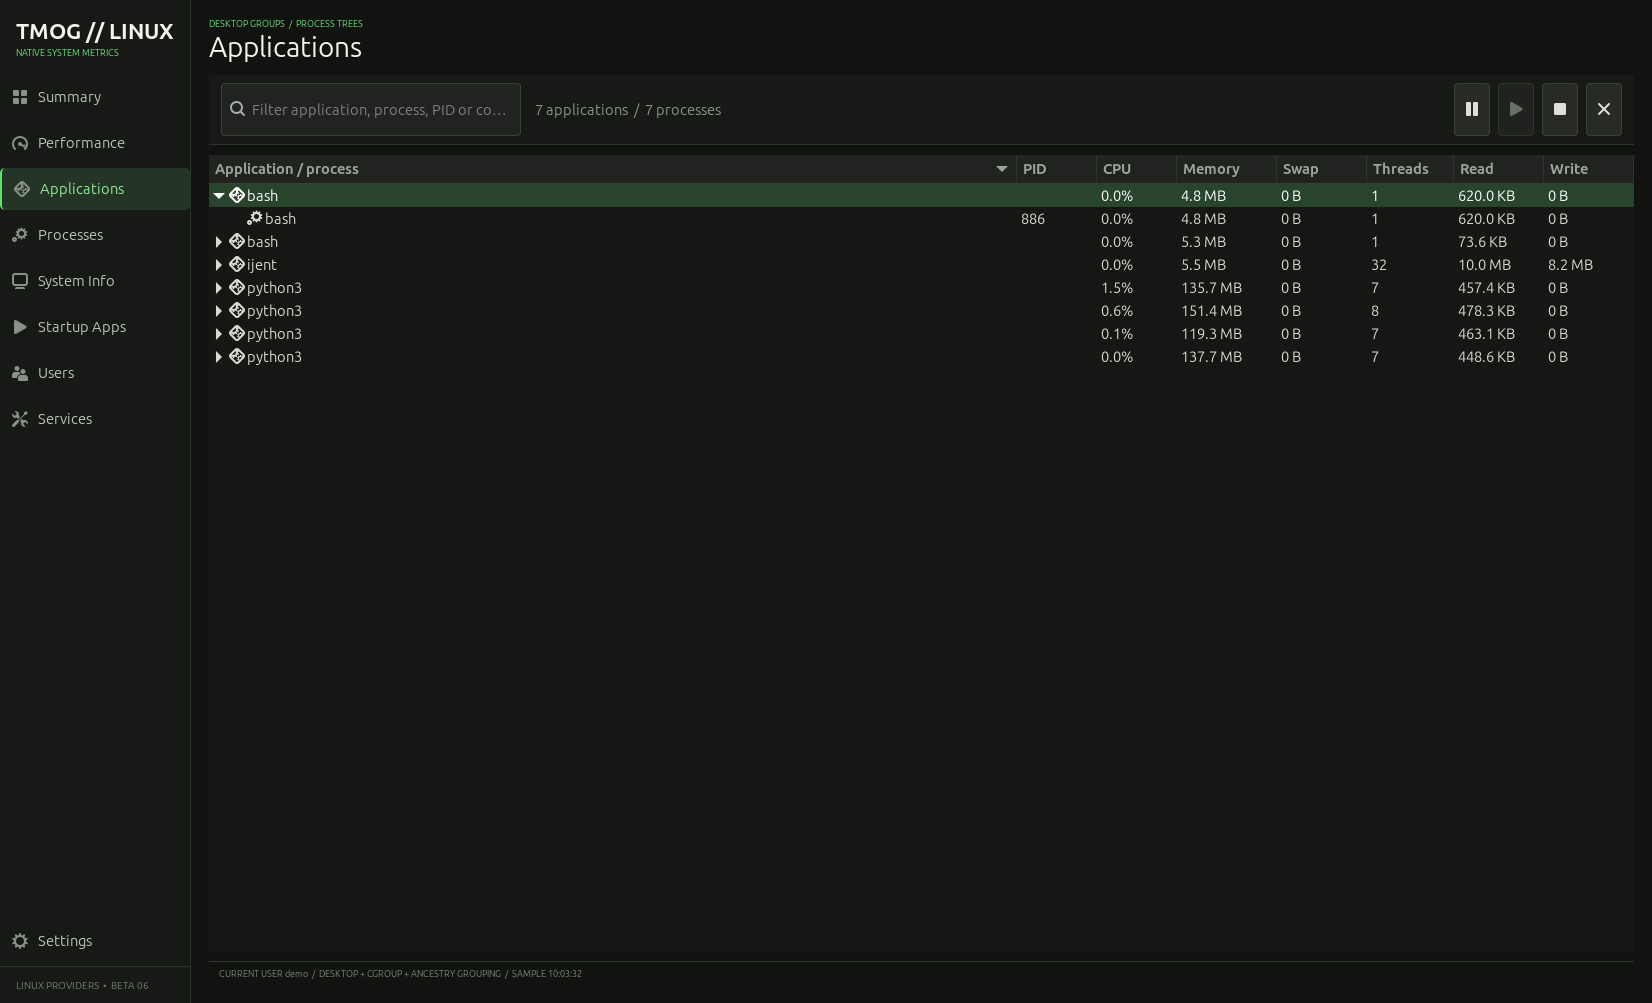
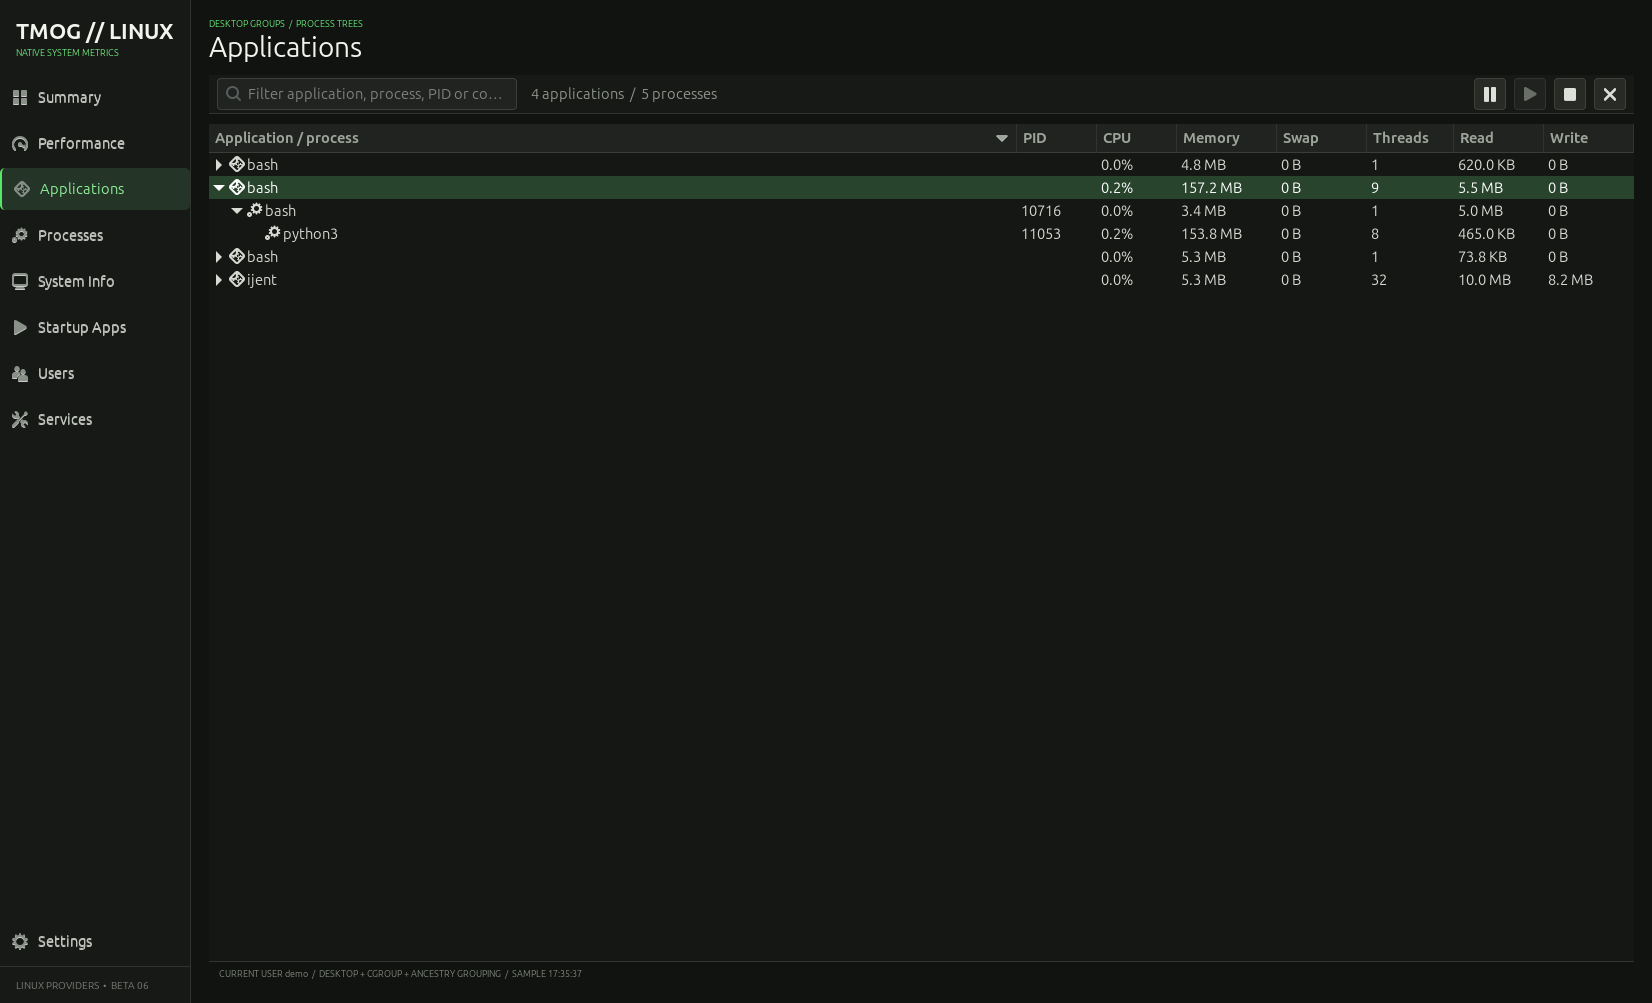
Release beta06.4-r21: balance compact data toolbars with reference-aligned table spacing

Changed region(s): [[0.1235, 0.0618, 0.9879, 0.3709], [0.0309, 0.0927, 0.0617, 0.1545], [0.0309, 0.2782, 0.0617, 0.3091]]

diff --git a/tmog_linux/app.py b/tmog_linux/app.py
@@ -68,6 +68,7 @@ SIDEBAR_COMPACT_WIDTH = 58
 SIDEBAR_FULL_WIDTH = 205
 SIDEBAR_COMPACT_BREAKPOINT = 760
 SIDEBAR_SHORT_BREAKPOINT = 520
+DATA_TOOLBAR_TABLE_GAP = 10
 
 
 @dataclass(slots=True)
@@ -121,8 +122,10 @@ headerbar button.titlebutton.close:hover { background: #c42b1c; color: #ffffff; 
 .purple { color: #c34bff; }
 .red { color: #ff505a; }
 .status-live { color: #57ea69; font-size: 10px; }
-.toolbar { background: #171916; border-bottom: 1px solid #30342e; padding: 8px 12px; }
-.toolbar button, .compact-button { min-height: 28px; border-radius: 4px; background: #272a25; border: 1px solid #3b4038; color: #dce0d8; box-shadow: none; }
+.toolbar { background: #171916; border-bottom: 1px solid #30342e; padding: 3px 8px; }
+.toolbar button, .compact-button { min-height: 24px; padding: 3px 8px; border-radius: 4px; background: #272a25; border: 1px solid #3b4038; color: #dce0d8; box-shadow: none; }
+.toolbar entry, .toolbar searchentry { min-height: 24px; padding: 3px 8px; }
+.toolbar button.compact-button, button.compact-button { min-width: 24px; padding: 3px; }
 .toolbar button:hover, .compact-button:hover { background: #32362f; }
 .toolbar button:disabled, .compact-button:disabled { background: #20221f; border-color: #30342e; color: #696e67; }
 .collapse-button { min-width: 24px; min-height: 24px; padding: 1px; border-radius: 3px; background: transparent; border: 1px solid #343832; color: #aeb5aa; box-shadow: none; }
@@ -223,8 +226,10 @@ headerbar button.titlebutton.close:hover image { color: #ffffff; }
 .purple { color: #8e22b7; }
 .red { color: #c12735; }
 .status-live { color: #087a2c; font-size: 10px; }
-.toolbar { background: #ececf0; border-bottom: 1px solid #c9c9ce; padding: 8px 12px; }
-.toolbar button, .compact-button { min-height: 28px; border-radius: 5px; background: #ffffff; border: 1px solid #b8bcc3; color: #2c2c2e; box-shadow: 0 1px 1px rgba(0, 0, 0, 0.05); }
+.toolbar { background: #ececf0; border-bottom: 1px solid #c9c9ce; padding: 3px 8px; }
+.toolbar button, .compact-button { min-height: 24px; padding: 3px 8px; border-radius: 5px; background: #ffffff; border: 1px solid #b8bcc3; color: #2c2c2e; box-shadow: 0 1px 1px rgba(0, 0, 0, 0.05); }
+.toolbar entry, .toolbar searchentry { min-height: 24px; padding: 3px 8px; }
+.toolbar button.compact-button, button.compact-button { min-width: 24px; padding: 3px; }
 .toolbar button:hover, .compact-button:hover { background: #e6e6eb; }
 .toolbar button:disabled, .compact-button:disabled { background: #ededf0; border-color: #d2d2d7; color: #98989d; box-shadow: none; }
 .collapse-button { min-width: 24px; min-height: 24px; padding: 1px; border-radius: 4px; background: transparent; border: 1px solid #b8bcc3; color: #484b51; box-shadow: none; }
@@ -917,6 +922,7 @@ def icon_button(icon: str, tooltip: str, css_class: str = "compact-button") -> G
     button.set_image(Gtk.Image.new_from_icon_name(icon, Gtk.IconSize.BUTTON))
     button.set_tooltip_text(tooltip)
     button.get_style_context().add_class(css_class)
+    button.set_valign(Gtk.Align.CENTER)
     return button
 
 
@@ -996,10 +1002,15 @@ def scrollable(child: Gtk.Widget) -> Gtk.ScrolledWindow:
 
 
 def horizontally_scrollable(child: Gtk.Widget) -> Gtk.ScrolledWindow:
+    child.set_vexpand(False)
+    child.set_valign(Gtk.Align.START)
     scroller = Gtk.ScrolledWindow()
     scroller.set_policy(Gtk.PolicyType.AUTOMATIC, Gtk.PolicyType.NEVER)
-    scroller.set_overlay_scrolling(False)
+    scroller.set_overlay_scrolling(True)
     scroller.set_shadow_type(Gtk.ShadowType.NONE)
+    scroller.set_propagate_natural_height(True)
+    scroller.set_vexpand(False)
+    scroller.set_margin_bottom(DATA_TOOLBAR_TABLE_GAP)
     scroller.add(child)
     return scroller
 
@@ -1664,6 +1675,7 @@ class TmogWindow(Gtk.Window):
 
     def _build_applications_page(self) -> None:
         page, content = self._page_box("Applications", "DESKTOP GROUPS  /  PROCESS TREES")
+        content.set_spacing(0)
         toolbar = Gtk.Box(orientation=Gtk.Orientation.HORIZONTAL, spacing=8)
         toolbar.get_style_context().add_class("toolbar")
         self.application_search = Gtk.SearchEntry()
@@ -1748,6 +1760,7 @@ class TmogWindow(Gtk.Window):
 
     def _build_processes_page(self) -> None:
         page, content = self._page_box("Processes", "PROCESS TREE  /  NATIVE SIGNALS")
+        content.set_spacing(0)
         toolbar = Gtk.Box(orientation=Gtk.Orientation.HORIZONTAL, spacing=8)
         toolbar.get_style_context().add_class("toolbar")
         self.process_view_combo = Gtk.ComboBoxText()
@@ -1899,11 +1912,13 @@ class TmogWindow(Gtk.Window):
 
     def _build_startup_page(self) -> None:
         page, content = self._page_box("Startup Apps", "XDG AUTOSTART  /  MANAGED")
+        content.set_spacing(0)
         note = Gtk.Label(
             label="System entries are managed through safe per-user XDG overrides",
             xalign=0,
         )
         note.get_style_context().add_class("muted")
+        note.set_margin_bottom(10)
         content.pack_start(note, False, False, 0)
 
         toolbar = Gtk.Box(orientation=Gtk.Orientation.HORIZONTAL, spacing=8)
@@ -1966,6 +1981,7 @@ class TmogWindow(Gtk.Window):
 
     def _build_services_page(self) -> None:
         page, content = self._page_box("Services", "SYSTEMD  /  USER + SYSTEM CONTROL")
+        content.set_spacing(0)
         toolbar = Gtk.Box(orientation=Gtk.Orientation.HORIZONTAL, spacing=8)
         toolbar.get_style_context().add_class("toolbar")
         self.service_scope_combo = Gtk.ComboBoxText()

diff --git a/tools/capture_ui.py b/tools/capture_ui.py
@@ -15,7 +15,17 @@ gi.require_version("Gtk", "3.0")
 gi.require_version("Gdk", "3.0")
 from gi.repository import GLib, Gtk
 
-from tmog_linux.app import TmogWindow
+from tmog_linux.app import DATA_TOOLBAR_TABLE_GAP, TmogWindow
+
+
+def widgets_with_style_class(widget: Gtk.Widget, css_class: str) -> list[Gtk.Widget]:
+    matches = []
+    if widget.get_style_context().has_class(css_class):
+        matches.append(widget)
+    if isinstance(widget, Gtk.Container):
+        for child in widget.get_children():
+            matches.extend(widgets_with_style_class(child, css_class))
+    return matches
 
 
 def sanitize_public_capture(window: TmogWindow) -> None:
@@ -78,6 +88,11 @@ def main() -> int:
     if capture_theme:
         if capture_theme not in ("system", "dark", "light"):
             raise SystemExit("TMOG_CAPTURE_THEME must be system, dark, or light")
+        window.theme_combo.handler_block_by_func(window._theme_changed)
+        try:
+            window.theme_combo.set_active_id(capture_theme)
+        finally:
+            window.theme_combo.handler_unblock_by_func(window._theme_changed)
         window._apply_theme(capture_theme)
     capture_size = os.environ.get("TMOG_CAPTURE_SIZE")
     capture_dimensions: tuple[int, int] | None = None
@@ -155,6 +170,43 @@ def main() -> int:
                 f"allocated={allocation.width}x{allocation.height}, "
                 f"preferred-heights={preferred_heights}"
             )
+        for toolbar in widgets_with_style_class(window.stack.get_visible_child(), "toolbar"):
+            _minimum_height, natural_height = toolbar.get_preferred_height()
+            allocated_height = toolbar.get_allocated_height()
+            print(f"toolbar-height: natural={natural_height}px, allocated={allocated_height}px")
+            if allocated_height > natural_height + 2:
+                window.destroy()
+                raise RuntimeError("Toolbar controls expand beyond their natural height")
+            if allocated_height > 42:
+                window.destroy()
+                raise RuntimeError("Toolbar is taller than the compact data-header target")
+            ancestor = toolbar.get_parent()
+            while ancestor is not None and not isinstance(ancestor, Gtk.ScrolledWindow):
+                ancestor = ancestor.get_parent()
+            if ancestor is not None:
+                reserved_height = ancestor.get_allocated_height() - allocated_height
+                visible_gap = reserved_height + ancestor.get_margin_bottom()
+                print(
+                    f"toolbar-to-table-gap: reserved={reserved_height}px, "
+                    f"margin={ancestor.get_margin_bottom()}px, visible={visible_gap}px"
+                )
+                if reserved_height > 1 or ancestor.get_margin_bottom() != DATA_TOOLBAR_TABLE_GAP:
+                    window.destroy()
+                    raise RuntimeError("Toolbar does not match the intended table-header gap")
+            toolbar_parent = ancestor.get_parent() if ancestor is not None else None
+            if isinstance(toolbar_parent, Gtk.Box):
+                spacing = toolbar_parent.get_spacing()
+                print(f"toolbar-to-table-spacing: {spacing}px")
+                if spacing != 0:
+                    window.destroy()
+                    raise RuntimeError("Toolbar still leaves a gap before the data table")
+        for button in widgets_with_style_class(window.stack.get_visible_child(), "compact-button"):
+            width = button.get_allocated_width()
+            height = button.get_allocated_height()
+            print(f"compact-button-size: {width}x{height}px")
+            if abs(width - height) > 1:
+                window.destroy()
+                raise RuntimeError("Icon-only toolbar button is not square")
         if window.stack.get_visible_child_name() == "summary":
             adjustment = window.summary_scroller.get_vadjustment()
             overflow = max(0.0, adjustment.get_upper() - adjustment.get_page_size())

diff --git a/tests/test_appearance.py b/tests/test_appearance.py
@@ -4,6 +4,7 @@ from pathlib import Path
 from tempfile import TemporaryDirectory
 
 from tmog_linux.app import (
+    DATA_TOOLBAR_TABLE_GAP,
     RESOURCE_GRAPH_MAXIMA,
     SIDEBAR_COMPACT_BREAKPOINT,
     SIDEBAR_COMPACT_WIDTH,
@@ -15,6 +16,8 @@ from tmog_linux.app import (
     clamped_scroll_value,
     graph_fraction,
     graph_maximum,
+    horizontally_scrollable,
+    icon_button,
     load_cpu_section_preferences,
     load_theme_preference,
     save_cpu_section_preferences,
@@ -22,6 +25,7 @@ from tmog_linux.app import (
     service_status_visual,
     summary_height_adjustment,
 )
+from gi.repository import Gtk
 
 
 class AppearancePreferenceTests(unittest.TestCase):
@@ -54,6 +58,21 @@ class AppearancePreferenceTests(unittest.TestCase):
         self.assertEqual(SIDEBAR_COMPACT_WIDTH, 58)
         self.assertEqual(SIDEBAR_FULL_WIDTH, 205)
         self.assertGreater(SIDEBAR_COMPACT_BREAKPOINT, WINDOW_MIN_WIDTH)
+
+    def test_horizontal_toolbars_keep_their_natural_height(self):
+        toolbar = Gtk.Box()
+        scroller = horizontally_scrollable(toolbar)
+        self.assertTrue(scroller.get_propagate_natural_height())
+        self.assertFalse(scroller.get_vexpand())
+        self.assertTrue(scroller.get_overlay_scrolling())
+        self.assertEqual(DATA_TOOLBAR_TABLE_GAP, 10)
+        self.assertEqual(scroller.get_margin_bottom(), DATA_TOOLBAR_TABLE_GAP)
+        self.assertFalse(toolbar.get_vexpand())
+        self.assertEqual(toolbar.get_valign(), Gtk.Align.START)
+
+        button = icon_button("view-refresh-symbolic", "Refresh")
+        self.assertTrue(button.get_style_context().has_class("compact-button"))
+        self.assertEqual(button.get_valign(), Gtk.Align.CENTER)
 
     def test_process_scroll_restoration_is_clamped_to_visible_range(self):
         self.assertEqual(clamped_scroll_value(420.0, 0.0, 1000.0, 300.0), 420.0)

diff --git a/README.md b/README.md
@@ -29,7 +29,7 @@
   </tr>
 </table>
 
-> 本页 22 张 `*-latest.png` 均由 beta06.4-r17 同批生成，`screenshots` 目录只保留这一批当前版本功能图。截图中的主机名、账户名和网络地址已替换为公开演示值；性能数字只是采集瞬间的状态，不代表基准测试结果。点击任意截图可以查看原尺寸。
+> 本页 22 张 `*-latest.png` 均由 beta06.4-r21 同批生成，`screenshots` 目录只保留这一批当前版本功能图。截图中的主机名、账户名和网络地址已替换为公开演示值；性能数字只是采集瞬间的状态，不代表基准测试结果。点击任意截图可以查看原尺寸。
 
 ## 功能总览
 
@@ -45,6 +45,8 @@
 | **Processes** | 全部、当前用户、活动和进程树；搜索、排序、CPU 压力条、I/O、启动时间和完整信号操作 |
 | **System** | 系统身份、XDG 自启动项、用户资源汇总，以及可展开和控制的 systemd 用户/系统服务 |
 | **Appearance** | 跟随 AnduinOS/Ubuntu，也可以固定使用深色或 macOS 风格的中性浅色界面 |
+
+Applications、Processes、Startup Apps 与 Services 的操作栏在宽度不足时允许横向滚动；搜索框、筛选框和文字操作按钮保持紧凑的自然高度，纯图标按钮固定为等宽等高。操作栏不会再为隐藏的横向滚动条预留空带，并按照参考界面的节奏与表格标题保留 `10px` 间距。
 
 ## 图示导览
 
@@ -204,7 +206,7 @@ Machine identity 汇总发行版、Kernel、主机名、架构、处理器、物
 
 <a href="screenshots/startup-apps-latest.png"><img width="100%" src="screenshots/startup-apps-latest.png" alt="Managed XDG startup application list with enable and disable controls"></a>
 
-读取系统与当前用户的 XDG autostart 目录，显示名称、启用状态、来源和命令。选择条目后可以启用、禁用或打开配置位置；系统级条目会通过当前用户目录中的 XDG override 管理，不会直接修改 `/etc/xdg/autostart`。
+读取系统与当前用户的 XDG autostart 目录，显示名称、启用状态、来源和命令。选择条目后可以启用、禁用或打开配置位置；这些文字操作按钮与其他数据页使用相同的紧凑高度。系统级条目会通过当前用户目录中的 XDG override 管理，不会直接修改 `/etc/xdg/autostart`。
 
 ### 14. Users 用户资源汇总
 
